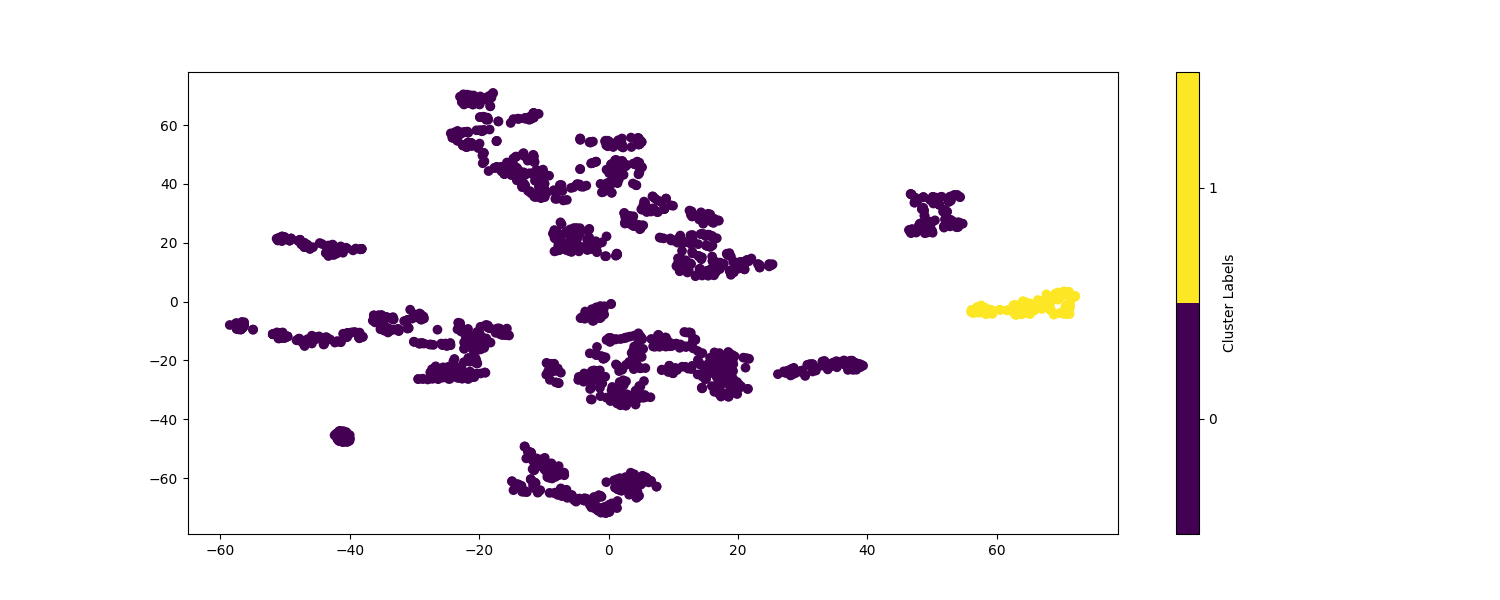
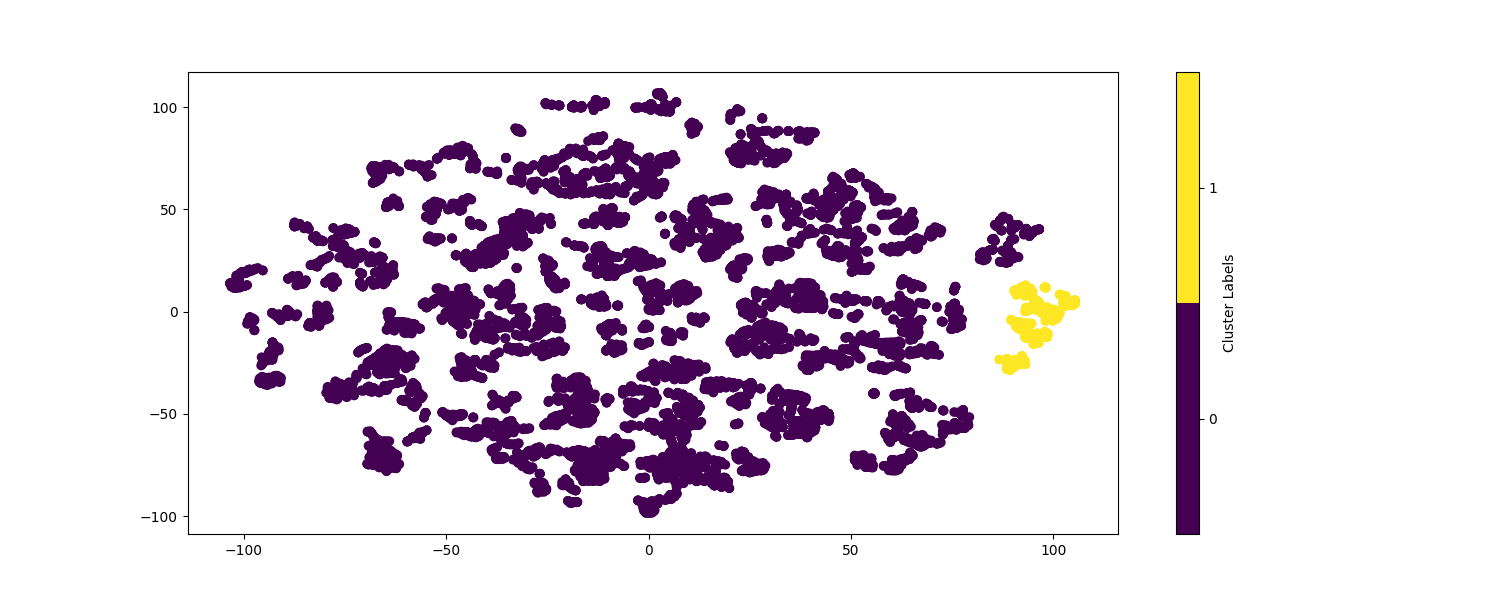
finalize 2 clusters

diff --git a/src/models/clustering.py b/src/models/clustering.py
@@ -253,7 +253,7 @@ def plot_elbow_method(silhouette_scores, silhouette_scores_cl, inertia_scores,\
     plt.clf()
 
 # +
-def perform_clustering(X,y, n_clusters, top_features):
+def perform_clustering(X,n_clusters, top_features):
 
     # scale the data
     scaler = StandardScaler()
@@ -261,20 +261,13 @@ def perform_clustering(X,y, n_clusters, top_features):
 
     agg_clustering = AgglomerativeClustering(n_clusters=n_clusters)
 
-    # Define the undersampler and oversampler
-    undersampler = RandomUnderSampler(random_state=42)
-    
-    # Undersample the majority class
-    X_resampled, y_resampled = undersampler.fit_resample(X_scaled, y)
-        
-
-    agg_clustering.fit(X_resampled)
-    y_pred = agg_clustering.fit_predict(X_resampled)
+    agg_clustering.fit(X_scaled)
+    y_pred = agg_clustering.fit_predict(X_scaled)
     cluster_labels = agg_clustering.labels_
 
     # Perform t-SNE
     tsne = TSNE(n_components=2, perplexity=30, learning_rate=200, random_state=42)
-    X_tsne = tsne.fit_transform(X_resampled)
+    X_tsne = tsne.fit_transform(X_scaled)
 
     # Plot the t-SNE with colors based on cluster assignments
     plt.scatter(X_tsne[:, 0], X_tsne[:, 1], c=cluster_labels, cmap=plt.cm.get_cmap('viridis', n_clusters))
@@ -362,7 +355,7 @@ if __name__ == "__main__":
     
     # perform clustering - kmeans
     n_clusters = 2
-    labels_agg, y_pred = perform_clustering(X ,y, n_clusters, top_features) # X ,y,  n_clusters, top_features
+    labels_agg, y_pred = perform_clustering(X , n_clusters, top_features) # X ,y,  n_clusters, top_features
 
     # add the labels to the dataframe
     df['aggregate_levels'] = labels_agg
